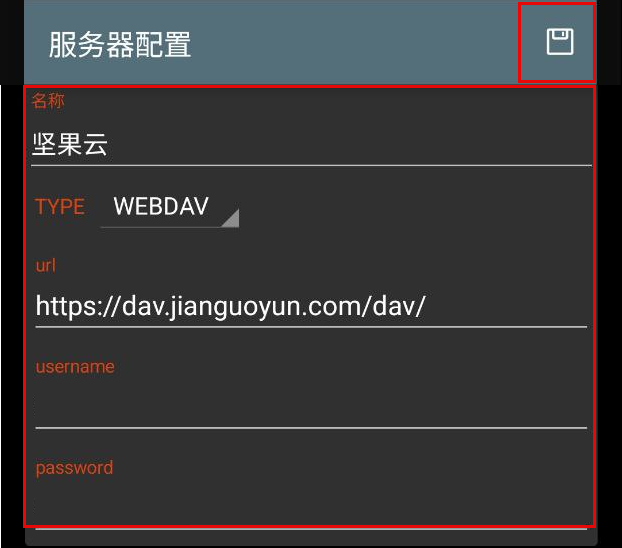
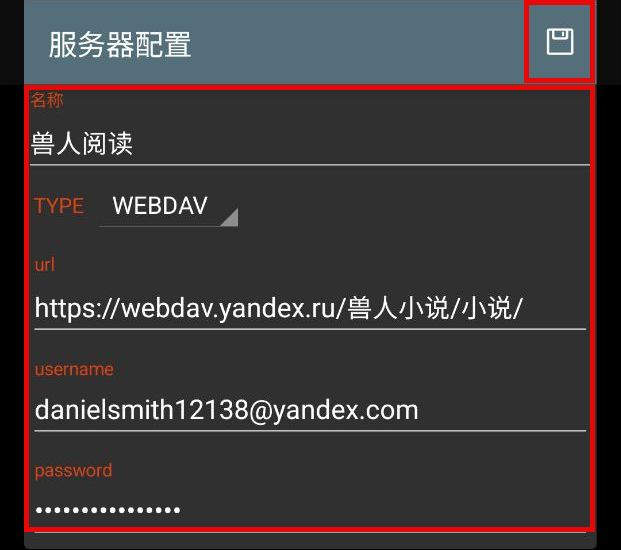
更新文档: 远程小说（兽人小说）

Changed region(s): [[0.0306, 0.0, 0.9791, 1.0], [0.1836, 0.3412, 0.3977, 0.4343], [0.2142, 0.062, 0.306, 0.0931]]

diff --git a/doc/RemoteBooks.md b/doc/RemoteBooks.md
@@ -17,11 +17,12 @@
 
 ![img](./pic/RemoteBooksSettings4.png)
 
-> 地址 `url` 填入 Webdav 服务器地址
->
-> 账户 `username` 填入注册邮箱
->
-> 密码 `password` 填入 **应用密码（非账户密码）**
+### 2.兽人小说服务器配置
+| 配置 | 内容                                   |
+| --- | -------------------------------------- | 
+| 地址 | https://webdav.yandex.ru/兽人小说/小说/ |
+| 账户 | danielsmith12138@yandex.com           |
+| 密码 | mbatorsztocorhay                      |
 
 保存，选择添加的服务器
 
